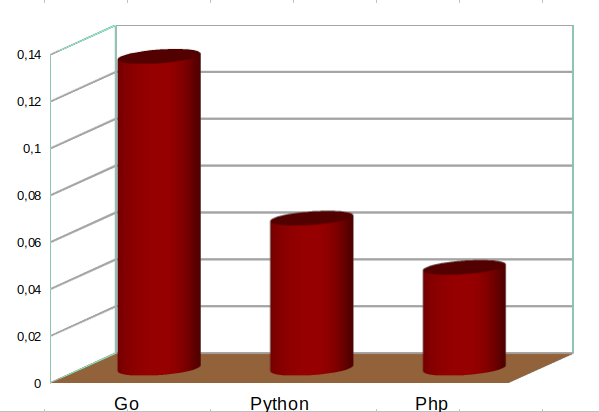
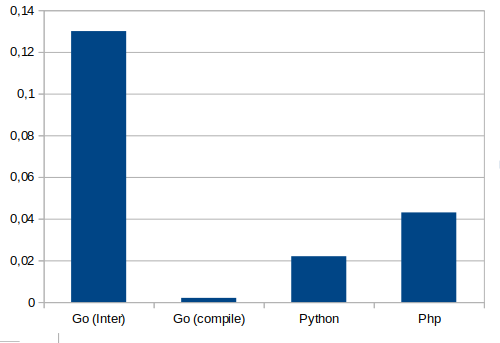
speed test

diff --git a/speed/test_cycle.go b/speed/test_cycle.go
@@ -1,0 +1,9 @@
+package main
+import "fmt"
+func main() {
+    var str string
+    for i := 0; i < 100000; i++{
+        str += "1";
+    }
+    fmt.Println(str)
+}

diff --git a/speed/test_cycle.php b/speed/test_cycle.php
@@ -1,0 +1,8 @@
+<?php
+
+$str = "";
+for ($i=0; $i < 100000; $i++) {
+    $str .= "1";
+}
+echo $str;
+

diff --git a/speed/test_cycle.py b/speed/test_cycle.py
@@ -1,0 +1,7 @@
+str = ""
+i = 0
+while i < 100000 : 
+    str += "1"
+    i += 1
+
+print(str)

diff --git a/SPEED.md b/SPEED.md
@@ -1,9 +1,11 @@
 ### Python vs PHP vs Go - Hello world!
 
-Сравним скорость вывода строки «Hello world!» в PHP и Python. Для эталона скорости будем использовать Golang в интерактивном режиме.
+Сравним скорость вывода строки «Hello world!» в PHP,  Python и Golang.
+Для теста я использую Ubuntu 22.04, go1.23.1, PHP 7.3.33, Python 3.10.6
+
+## Тест Hello world!
 
 ### python
-
 ```python
 print("hello world!")
 ```
@@ -24,4 +26,44 @@ func main() {
 
 ![lucky_python](https://github.com/crmscope/lucky_python/blob/main/speed/img/hello_world_result.png)
 
-Как можно заметить на простом выводе строки быстрее всех справился PHP затем Python Затем Golang
+
+Результат достаточно предсказуем. Скомпилированный golang файл отработал в десятки раз быстрее нескомпелированных.  Python на 30% быстрее php, а нескомпелированный код Golang показал самый медленный результат.
+
+## Тест цикла на 100 000 итераций с конконтенацией строки.
+
+
+### python
+```python
+str = ""
+i = 0
+while i < 100000 : 
+    str += "1"
+    i += 1
+
+print(str)
+```
+### php
+```php
+$str = "";
+for ($i=0; $i < 100000; $i++) {
+    $str .= "1";
+}
+echo $str;
+```
+### GO
+```go
+package main
+import "fmt"
+func main() {
+    var str string
+    for i := 0; i < 100000; i++{
+        str += "1";
+    }
+    fmt.Println(str)
+}
+```
+## Результат
+
+![lucky_python](https://github.com/crmscope/lucky_python/blob/main/speed/img/cycle_result.png)
+
+Результаты получились крайне не однозначные.  Код golang  как скампилированный так и нет работает примерно с одинаковой скоростью. А PHP и Python отработали на порядок быстрее.
